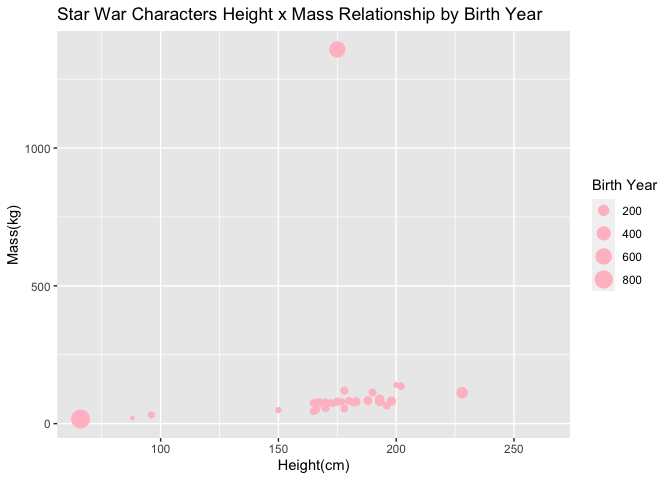
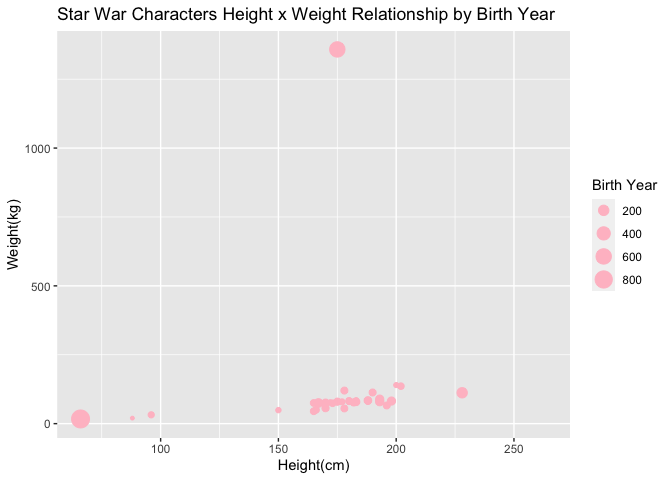
done

Changed region(s): [[0.4375, 0.0, 0.8125, 0.0625], [0.0, 0.4062, 0.0312, 0.5625]]

diff --git a/starwars.md b/starwars.md
@@ -44,9 +44,9 @@ ggplot(starwars,
        aes(x = height, y = mass, color = gender, size = birth_year)) +
   geom_point(color = "pink") +
   labs(
-    title = "Star War Characters Height x Mass Relationship by Birth Year",
+    title = "Star War Characters Height x Weight Relationship by Birth Year",
     x = "Height(cm)", 
-    y = "Mass(kg)",
+    y = "Weight(kg)",
     size = "Birth Year"
     )
 ```
@@ -65,16 +65,57 @@ or remove the `eval` option altogether since it’s set to `TRUE` by
 default.)
 
 ``` r
-ggplot(starwars, aes(___)) +
-  geom___
+ggplot(starwars, aes(y = hair_color)) +
+  geom_bar()
 ```
+
+![](starwars_files/figure-gfm/barplot-1.png)<!-- -->
 
 ### Pick a single numerical variable and make a histogram of it.
 
 (This time no starter code is provided, you’re on your own!)
 
+``` r
+ggplot(starwars, aes(x = height)) +
+  geom_histogram(binwidth = 20)
+```
+
+    ## Warning: Removed 6 rows containing non-finite values (stat_bin).
+
+![](starwars_files/figure-gfm/histogram-1.png)<!-- -->
+
 ### Pick a numerical variable and a categorical variable and make a visualisation (you pick the type!) to visualise the relationship between the two variables. Along with your code and output, provide an interpretation of the visualisation.
+
+``` r
+ggplot(starwars, aes(x = height,
+                     fill = sex)) + 
+  geom_histogram(binwidth = 50,
+                  alpha = 0.5)
+```
+
+    ## Warning: Removed 6 rows containing non-finite values (stat_bin).
+
+![](starwars_files/figure-gfm/num-cat-1.png)<!-- -->
 
 ### Pick two categorical variables and make a visualisation to visualise the relationship between the two variables. Along with your code and output, provide an interpretation of the visualisation.
 
+``` r
+ggplot(starwars, aes(x = gender,
+                     fill = sex)) + 
+  geom_bar(alpha = 0.5)
+```
+
+![](starwars_files/figure-gfm/cat-cat-1.png)<!-- -->
+
 ### Pick two numerical variables and two categorical variables and make a visualisation that incorportes all of them and provide an interpretation with your answer.
+
+``` r
+ggplot(starwars, aes(x = mass, y = height,
+                     color = hair_color)) + 
+  geom_point(alpha = 0.5) + 
+  facet_grid(~gender)
+```
+
+    ## Warning: Removed 28 rows containing missing values (geom_point).
+
+![](starwars_files/figure-gfm/multi-1.png)<!-- -->
